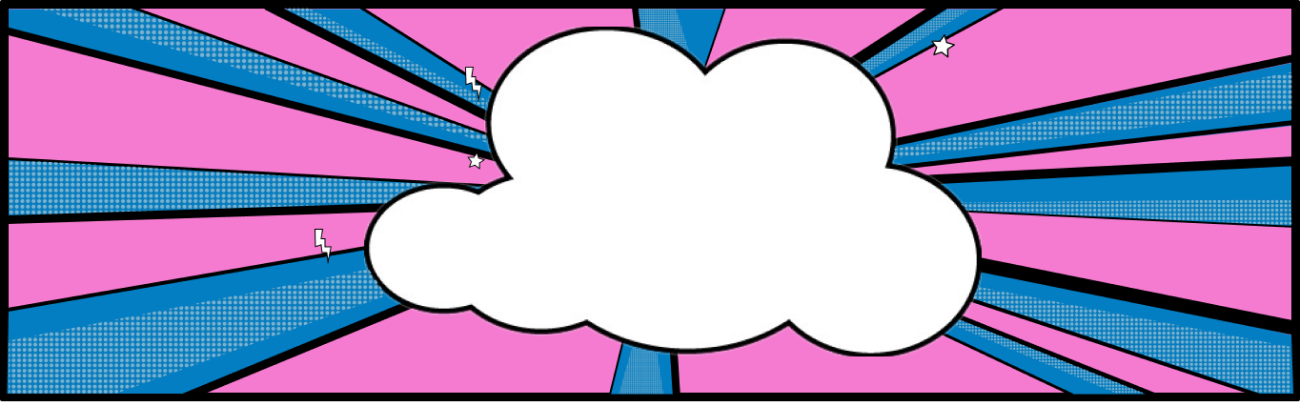
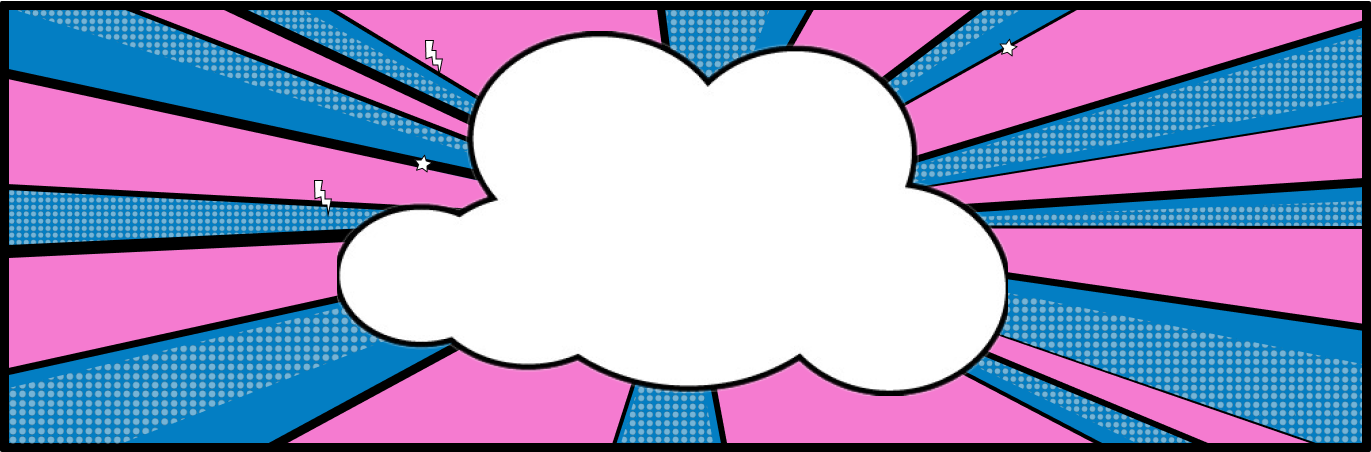
change branch

diff --git a/packages/frontend/web/src/pages/ProfilPage.tsx b/packages/frontend/web/src/pages/ProfilPage.tsx
@@ -1,16 +1,22 @@
 export default function ProfilPage() {
   return (
     <div className="h-screen w-screen overflow-x-hidden overflow-y-scroll bg-[url('profil-page/bg-profil-page.png')] bg-cover ">
-      <h1 className='font-stroke text-light mx-10 pt-10 text-center text-[2rem] font-extrabold uppercase sm:pt-16 sm:text-start sm:text-[2.5rem]'>
+      <h1 className='font-stroke-profil-main text-light mx-10 pt-10 text-center text-[2rem] font-extrabold uppercase sm:pt-16 sm:text-start sm:text-[2.5rem]'>
         {'Welcome Justin'}
       </h1>
       <div className="gb-center relative right-[55%] flex h-[75%] w-[200%] items-center justify-center bg-[url('profil-page/profil-header.png')] bg-contain bg-no-repeat sm:right-[0%] sm:m-2 sm:w-[97%] lg:m-10">
         <img
-          className='absolute left-[43%] top-[7%] w-[20%] sm:top-[6%] md:top-[8%] lg:top-[10%] '
+          className='absolute left-[41%] top-[7%] w-[20%] sm:top-[6%] md:top-[8%] lg:top-[10%] '
           src='profil-page/avatar.png'
           alt=''
         />
-        <div className="absolute h-[60%] w-[60%] bg-[url('profil-page/bubble.png')] bg-no-repeat" />
+        <div className="absolute right-[5%] top-[-5%] h-[80%] w-[35%] bg-[url('profil-page/bubble.png')] bg-cover bg-no-repeat" />
+        <div className='mt-[1200px] flex w-screen flex-col items-center'>
+          <div className="z-20 h-[400px] w-[600px] bg-[url('profil-page/miss-hold-it.png')] bg-cover" />
+          <div className='bg-light border-dark relative top-[-60px] z-10 h-[400px] w-[80%] border-[6px]'>
+            {' '}
+          </div>
+        </div>
       </div>
     </div>
   );

diff --git a/packages/frontend/web/src/globals.css b/packages/frontend/web/src/globals.css
@@ -11,28 +11,28 @@ body {
 
 @layer utilities {
   /* Stroke for the font */
-  .font-stroke {
+  .font-stroke-profil-main {
     text-shadow:
-      0 0 3px #0e0f0f,
-      0 0 3px #0e0f0f,
-      0 0 3px #0e0f0f,
-      0 0 3px #0e0f0f,
-      0 0 3px #0e0f0f,
-      0 0 3px #0e0f0f,
-      0 0 3px #0e0f0f,
-      0 0 3px #0e0f0f,
-      0 0 3px #0e0f0f,
-      0 0 3px #0e0f0f,
-      0 0 3px #0e0f0f,
-      0 0 3px #0e0f0f,
-      0 0 3px #0e0f0f,
-      0 0 3px #0e0f0f,
-      0 0 3px #0e0f0f,
-      0 0 3px #0e0f0f,
-      0 0 3px #0e0f0f,
-      0 0 3px #0e0f0f,
-      0 0 3px #0e0f0f,
-      0 0 3px #0e0f0f;
+      0 0 5px #0e0f0f,
+      0 0 5px #0e0f0f,
+      0 0 5px #0e0f0f,
+      0 0 5px #0e0f0f,
+      0 0 5px #0e0f0f,
+      0 0 5px #0e0f0f,
+      0 0 5px #0e0f0f,
+      0 0 5px #0e0f0f,
+      0 0 5px #0e0f0f,
+      0 0 5px #0e0f0f,
+      0 0 5px #0e0f0f,
+      0 0 5px #0e0f0f,
+      0 0 5px #0e0f0f,
+      0 0 5px #0e0f0f,
+      0 0 5px #0e0f0f,
+      0 0 5px #0e0f0f,
+      0 0 5px #0e0f0f,
+      0 0 5px #0e0f0f,
+      0 0 5px #0e0f0f,
+      0 0 5px #0e0f0f;
     -webkit-text-stroke: 0.5px #0e0f0f;
   }
 }
